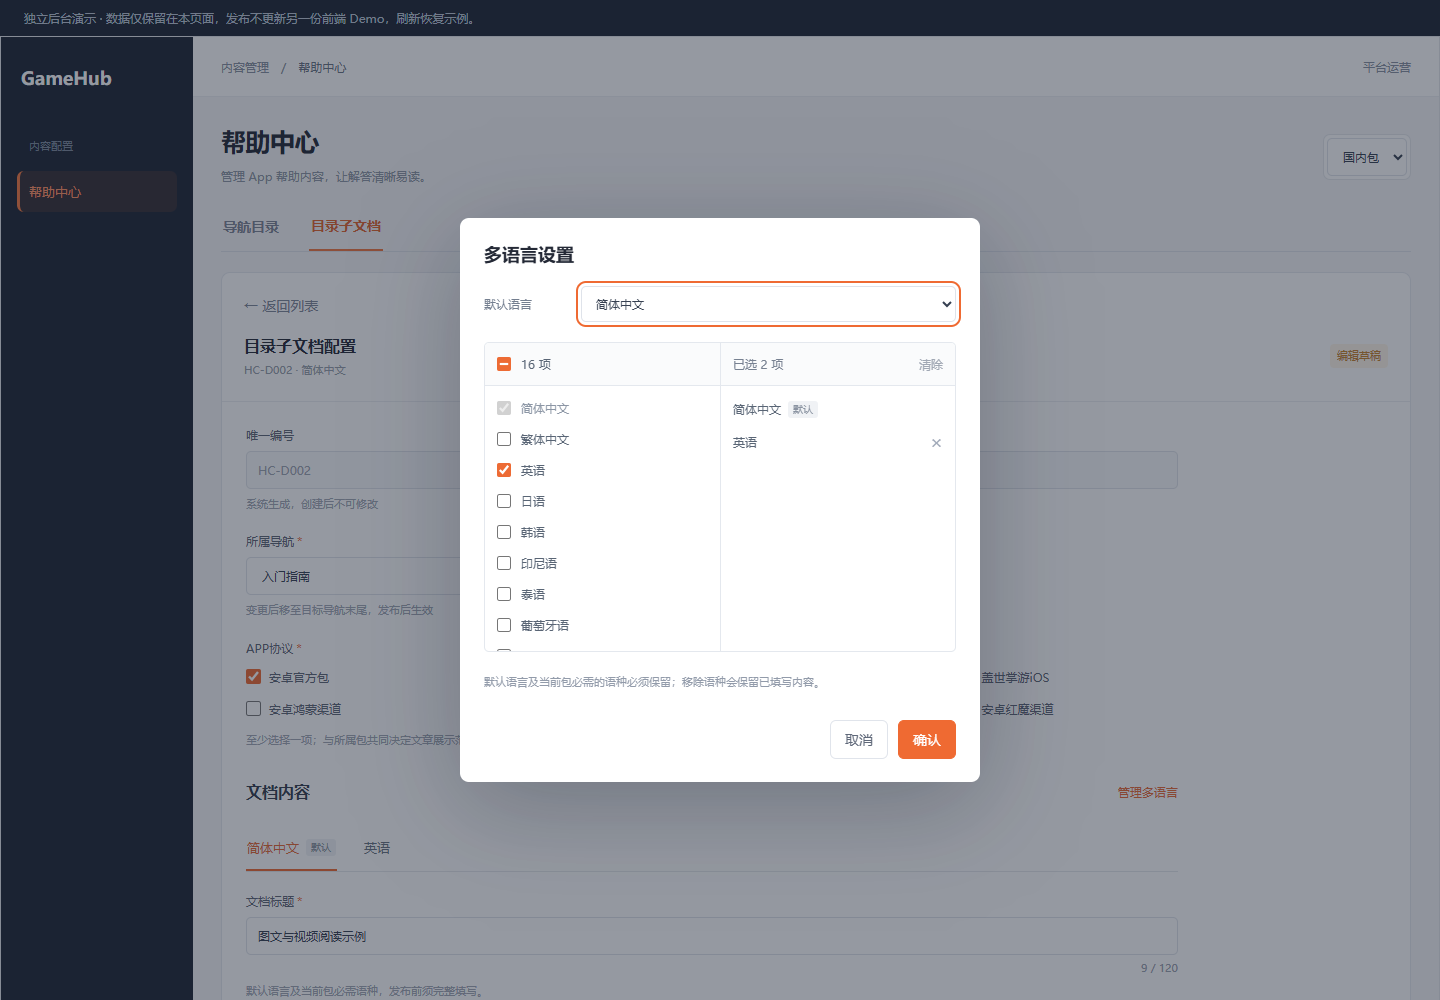
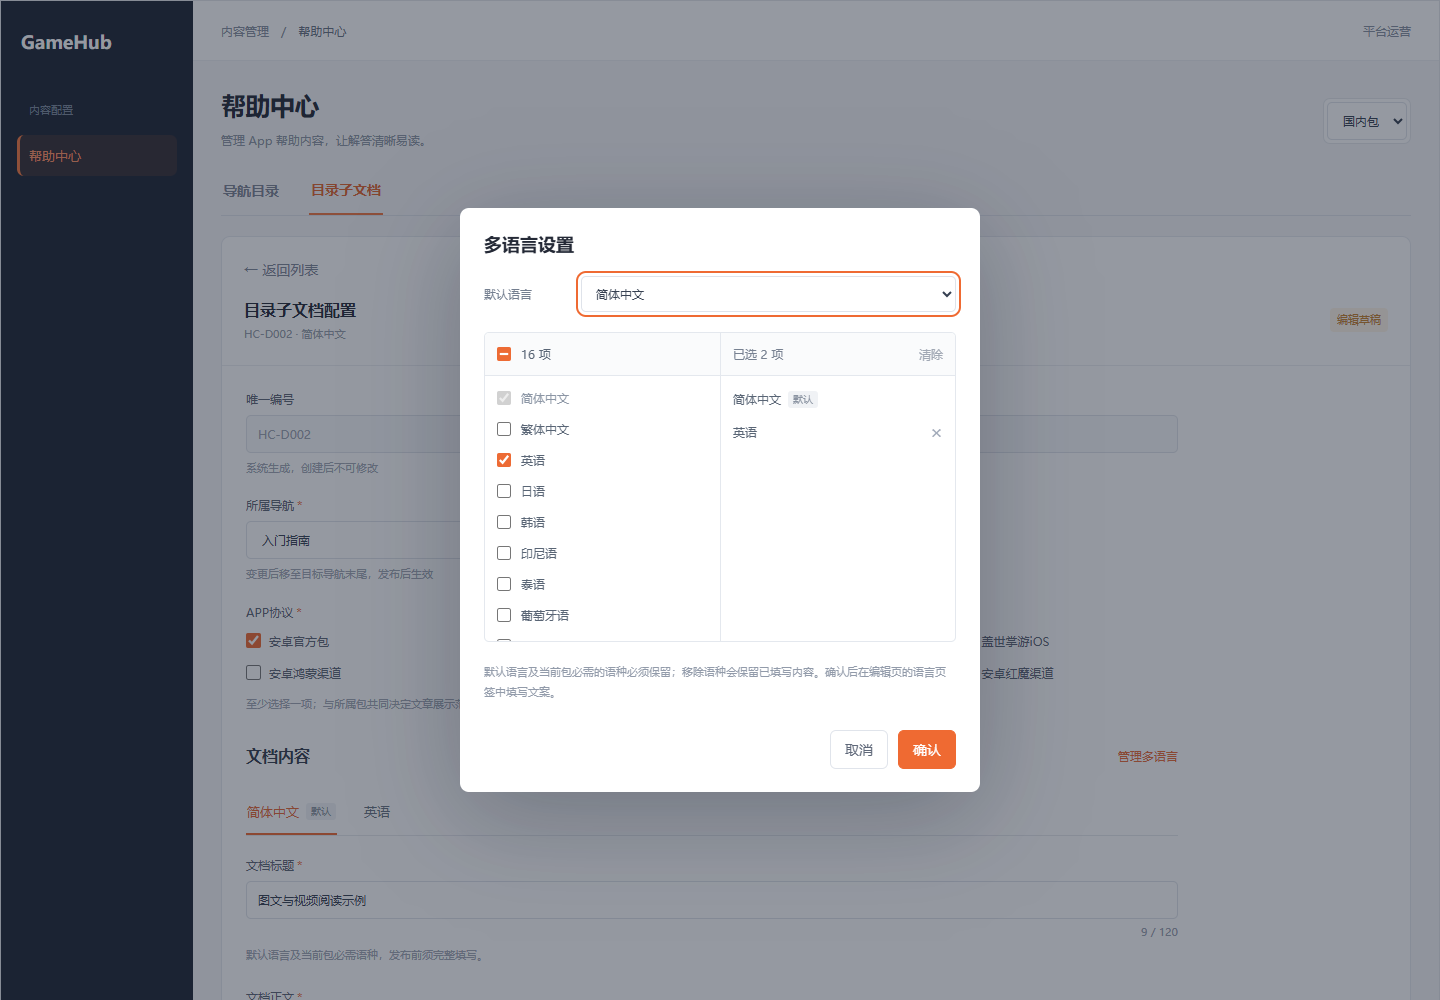
fix(help-center): open translation editor after language selection

diff --git a/demos/帮助中心/帮助中心后台demo.html b/demos/帮助中心/帮助中心后台demo.html
@@ -166,7 +166,7 @@
   function protectedLanguages(){return [...new Set([state.modal.defaultLanguage,...store.requiredLanguages(current())])];}
   function languageModal(){
     const modal=state.modal,protectedCodes=protectedLanguages();
-    return `<div class="ha-modal-layer"><section class="ha-language-dialog" data-ha-language-dialog role="dialog" aria-modal="true" aria-labelledby="ha-language-dialog-title"><header class="ha-dialog-head"><h2 id="ha-language-dialog-title">多语言设置</h2></header><div class="ha-dialog-default"><label for="ha-language-default">默认语言</label><select id="ha-language-default" data-ha-default-language>${store.languages.map(lang=>`<option value="${lang.code}" ${modal.defaultLanguage===lang.code?'selected':''}>${e(lang.label)}</option>`).join('')}</select></div><div class="ha-language-picker"><section><header><label><input type="checkbox" data-ha-language-all ${modal.enabled.length===store.languages.length?'checked':''}><span>${store.languages.length} 项</span></label></header><div class="ha-language-options">${store.languages.map(lang=>`<label><input type="checkbox" data-ha-language-option="${lang.code}" value="${lang.code}" ${modal.enabled.includes(lang.code)?'checked':''} ${protectedCodes.includes(lang.code)?'disabled':''}><span>${e(lang.label)}</span></label>`).join('')}</div></section><section><header><strong>已选 <span data-ha-language-selected-count>${modal.enabled.length}</span> 项</strong>${textBtn('清除','language-clear','',modal.enabled.every(code=>protectedCodes.includes(code))?'disabled':'')}</header><div class="ha-language-selected">${store.languages.filter(lang=>modal.enabled.includes(lang.code)).map(lang=>`<div data-ha-selected-language="${lang.code}"><span>${e(lang.label)}${protectedCodes.includes(lang.code)?`<small>${lang.code===modal.defaultLanguage?'默认':'必需'}</small>`:''}</span>${protectedCodes.includes(lang.code)?'':textBtn('×','language-remove',lang.code,`aria-label="移除${e(lang.label)}"`)}</div>`).join('')}</div></section></div><p class="ha-language-hint">默认语言及当前包必需的语种必须保留；移除语种会保留已填写内容。</p><div class="ha-feedback" data-ha-feedback role="status">${e(modal.error||'')}</div><footer class="ha-language-settings-actions">${btn('取消','language-cancel')}${btn('确认','language-confirm','','primary')}</footer></section></div>`;
+    return `<div class="ha-modal-layer"><section class="ha-language-dialog" data-ha-language-dialog role="dialog" aria-modal="true" aria-labelledby="ha-language-dialog-title"><header class="ha-dialog-head"><h2 id="ha-language-dialog-title">多语言设置</h2></header><div class="ha-dialog-default"><label for="ha-language-default">默认语言</label><select id="ha-language-default" data-ha-default-language>${store.languages.map(lang=>`<option value="${lang.code}" ${modal.defaultLanguage===lang.code?'selected':''}>${e(lang.label)}</option>`).join('')}</select></div><div class="ha-language-picker"><section><header><label><input type="checkbox" data-ha-language-all ${modal.enabled.length===store.languages.length?'checked':''}><span>${store.languages.length} 项</span></label></header><div class="ha-language-options">${store.languages.map(lang=>`<label><input type="checkbox" data-ha-language-option="${lang.code}" value="${lang.code}" ${modal.enabled.includes(lang.code)?'checked':''} ${protectedCodes.includes(lang.code)?'disabled':''}><span>${e(lang.label)}</span></label>`).join('')}</div></section><section><header><strong>已选 <span data-ha-language-selected-count>${modal.enabled.length}</span> 项</strong>${textBtn('清除','language-clear','',modal.enabled.every(code=>protectedCodes.includes(code))?'disabled':'')}</header><div class="ha-language-selected">${store.languages.filter(lang=>modal.enabled.includes(lang.code)).map(lang=>`<div data-ha-selected-language="${lang.code}"><span>${e(lang.label)}${protectedCodes.includes(lang.code)?`<small>${lang.code===modal.defaultLanguage?'默认':'必需'}</small>`:''}</span>${protectedCodes.includes(lang.code)?'':textBtn('×','language-remove',lang.code,`aria-label="移除${e(lang.label)}"`)}</div>`).join('')}</div></section></div><p class="ha-language-hint">默认语言及当前包必需的语种必须保留；移除语种会保留已填写内容。确认后在编辑页的语言页签中填写文案。</p><div class="ha-feedback" data-ha-feedback role="status">${e(modal.error||'')}</div><footer class="ha-language-settings-actions">${btn('取消','language-cancel')}${btn(modal.origin==='languages'?'确认并编辑':'确认','language-confirm','','primary')}</footer></section></div>`;
   }
   function refreshLanguageSettings(focusSelector){
     const old=root.querySelector('.ha-modal-layer');if(old)old.outerHTML=languageModal();
@@ -178,8 +178,14 @@
   }
   function closeLanguages(confirm=false){
     const modal=state.modal;if(!modal)return;
+    const before=store.get(modal.type,modal.id),added=store.languages.map(lang=>lang.code).filter(code=>modal.enabled.includes(code)&&!before.enabledLanguages.includes(code));
     if(confirm){const error=store.setLanguages(modal.type,modal.id,modal.enabled,modal.defaultLanguage);if(error){modal.error=error;refreshLanguageSettings();return;}}
     const item=store.get(modal.type,modal.id);state.modal=null;
+    if(confirm&&(modal.origin==='languages'||added.length)){
+      const unfinished=item.enabledLanguages.find(code=>{const value=store.translation(item,code);return !value?.title?.trim()||(modal.type==='docs'&&!String(value?.html||'').trim());});
+      state.tab=modal.type;state.selected=modal.id;state.language=added[0]||(modal.origin==='languages'?unfinished:'')||item.defaultLanguage;state.feedback='';state.deleting='';
+      render();root.querySelector('.ha-content-languages')?.scrollIntoView({block:'start'});root.querySelector('[data-ha-title]')?.focus({preventScroll:true});return;
+    }
     if(state.selected&&!item.enabledLanguages.includes(state.language))state.language=item.defaultLanguage;
     render();root.querySelector(`[data-ha-action="${modal.origin}"][data-id="${modal.id}"]`)?.focus();
   }

diff --git a/demos/帮助中心/src/admin.js b/demos/帮助中心/src/admin.js
@@ -53,7 +53,7 @@
   function protectedLanguages(){return [...new Set([state.modal.defaultLanguage,...store.requiredLanguages(current())])];}
   function languageModal(){
     const modal=state.modal,protectedCodes=protectedLanguages();
-    return `<div class="ha-modal-layer"><section class="ha-language-dialog" data-ha-language-dialog role="dialog" aria-modal="true" aria-labelledby="ha-language-dialog-title"><header class="ha-dialog-head"><h2 id="ha-language-dialog-title">多语言设置</h2></header><div class="ha-dialog-default"><label for="ha-language-default">默认语言</label><select id="ha-language-default" data-ha-default-language>${store.languages.map(lang=>`<option value="${lang.code}" ${modal.defaultLanguage===lang.code?'selected':''}>${e(lang.label)}</option>`).join('')}</select></div><div class="ha-language-picker"><section><header><label><input type="checkbox" data-ha-language-all ${modal.enabled.length===store.languages.length?'checked':''}><span>${store.languages.length} 项</span></label></header><div class="ha-language-options">${store.languages.map(lang=>`<label><input type="checkbox" data-ha-language-option="${lang.code}" value="${lang.code}" ${modal.enabled.includes(lang.code)?'checked':''} ${protectedCodes.includes(lang.code)?'disabled':''}><span>${e(lang.label)}</span></label>`).join('')}</div></section><section><header><strong>已选 <span data-ha-language-selected-count>${modal.enabled.length}</span> 项</strong>${textBtn('清除','language-clear','',modal.enabled.every(code=>protectedCodes.includes(code))?'disabled':'')}</header><div class="ha-language-selected">${store.languages.filter(lang=>modal.enabled.includes(lang.code)).map(lang=>`<div data-ha-selected-language="${lang.code}"><span>${e(lang.label)}${protectedCodes.includes(lang.code)?`<small>${lang.code===modal.defaultLanguage?'默认':'必需'}</small>`:''}</span>${protectedCodes.includes(lang.code)?'':textBtn('×','language-remove',lang.code,`aria-label="移除${e(lang.label)}"`)}</div>`).join('')}</div></section></div><p class="ha-language-hint">默认语言及当前包必需的语种必须保留；移除语种会保留已填写内容。</p><div class="ha-feedback" data-ha-feedback role="status">${e(modal.error||'')}</div><footer class="ha-language-settings-actions">${btn('取消','language-cancel')}${btn('确认','language-confirm','','primary')}</footer></section></div>`;
+    return `<div class="ha-modal-layer"><section class="ha-language-dialog" data-ha-language-dialog role="dialog" aria-modal="true" aria-labelledby="ha-language-dialog-title"><header class="ha-dialog-head"><h2 id="ha-language-dialog-title">多语言设置</h2></header><div class="ha-dialog-default"><label for="ha-language-default">默认语言</label><select id="ha-language-default" data-ha-default-language>${store.languages.map(lang=>`<option value="${lang.code}" ${modal.defaultLanguage===lang.code?'selected':''}>${e(lang.label)}</option>`).join('')}</select></div><div class="ha-language-picker"><section><header><label><input type="checkbox" data-ha-language-all ${modal.enabled.length===store.languages.length?'checked':''}><span>${store.languages.length} 项</span></label></header><div class="ha-language-options">${store.languages.map(lang=>`<label><input type="checkbox" data-ha-language-option="${lang.code}" value="${lang.code}" ${modal.enabled.includes(lang.code)?'checked':''} ${protectedCodes.includes(lang.code)?'disabled':''}><span>${e(lang.label)}</span></label>`).join('')}</div></section><section><header><strong>已选 <span data-ha-language-selected-count>${modal.enabled.length}</span> 项</strong>${textBtn('清除','language-clear','',modal.enabled.every(code=>protectedCodes.includes(code))?'disabled':'')}</header><div class="ha-language-selected">${store.languages.filter(lang=>modal.enabled.includes(lang.code)).map(lang=>`<div data-ha-selected-language="${lang.code}"><span>${e(lang.label)}${protectedCodes.includes(lang.code)?`<small>${lang.code===modal.defaultLanguage?'默认':'必需'}</small>`:''}</span>${protectedCodes.includes(lang.code)?'':textBtn('×','language-remove',lang.code,`aria-label="移除${e(lang.label)}"`)}</div>`).join('')}</div></section></div><p class="ha-language-hint">默认语言及当前包必需的语种必须保留；移除语种会保留已填写内容。确认后在编辑页的语言页签中填写文案。</p><div class="ha-feedback" data-ha-feedback role="status">${e(modal.error||'')}</div><footer class="ha-language-settings-actions">${btn('取消','language-cancel')}${btn(modal.origin==='languages'?'确认并编辑':'确认','language-confirm','','primary')}</footer></section></div>`;
   }
   function refreshLanguageSettings(focusSelector){
     const old=root.querySelector('.ha-modal-layer');if(old)old.outerHTML=languageModal();
@@ -65,8 +65,14 @@
   }
   function closeLanguages(confirm=false){
     const modal=state.modal;if(!modal)return;
+    const before=store.get(modal.type,modal.id),added=store.languages.map(lang=>lang.code).filter(code=>modal.enabled.includes(code)&&!before.enabledLanguages.includes(code));
     if(confirm){const error=store.setLanguages(modal.type,modal.id,modal.enabled,modal.defaultLanguage);if(error){modal.error=error;refreshLanguageSettings();return;}}
     const item=store.get(modal.type,modal.id);state.modal=null;
+    if(confirm&&(modal.origin==='languages'||added.length)){
+      const unfinished=item.enabledLanguages.find(code=>{const value=store.translation(item,code);return !value?.title?.trim()||(modal.type==='docs'&&!String(value?.html||'').trim());});
+      state.tab=modal.type;state.selected=modal.id;state.language=added[0]||(modal.origin==='languages'?unfinished:'')||item.defaultLanguage;state.feedback='';state.deleting='';
+      render();root.querySelector('.ha-content-languages')?.scrollIntoView({block:'start'});root.querySelector('[data-ha-title]')?.focus({preventScroll:true});return;
+    }
     if(state.selected&&!item.enabledLanguages.includes(state.language))state.language=item.defaultLanguage;
     render();root.querySelector(`[data-ha-action="${modal.origin}"][data-id="${modal.id}"]`)?.focus();
   }

diff --git a/demos/帮助中心/评审修改记录.md b/demos/帮助中心/评审修改记录.md
@@ -33,3 +33,7 @@ V1.2时渠道字段曾列待确认，现由下方V1.3用户截图补充取代。
 按用户提供的编辑页页签与多语言设置参考图实现；对应本地参考组件 publisher-game-names.js。文案在编辑页语言页签下维护，右上管理多语言打开520px双栏设置弹窗：默认语言、16语checkbox、全选/半选、已选数量、清除、取消/确认。取消或Escape丢弃临时设置，确认才改变对象草稿启用语种/默认语。
 
 移除语种不清空任何文案和媒体，重新添加恢复；默认语及当前包必需语保护，后者沿当前帮助中心建议规则国内中文/海外英语，不直接照搬游戏发行规则。已发布语言配置决定读取语言，移除后按对象默认回退；必需语及默认语完整、可选启用语全空可回退半译不可发布、未启用语不参加完整性校验。帮助中心仍无版本控制。
+
+## V1.6 新增语种后的编辑衔接
+
+用户反馈列表添加语言后找不到文案输入。原流程需返回列表再点编辑，现改列表“确认并编辑”直接进入同一对象编辑页并定位语言区；有新增按注册顺序选首个新增语，无新增选首个未完成语否则默认语。编辑页添加后直接切新增语种，取消仍保持原页及设置。9组语言检查通过，含文档标题正文与导航名称输入及返回保留。

diff --git a/demos/帮助中心/交付检查.md b/demos/帮助中心/交付检查.md
@@ -1,3 +1,5 @@
+> 当前以 V1.6 增量为准：列表点击“确认并编辑”直接打开文案区，编辑页新增语言后自动切到首个新增语种并聚焦标题。9组语言交互检查通过，覆盖多语标题／正文输入、导航名称、返回保留、取消及发布隔离；截图14提供填写证据。以下V1.5检查作为此前基线。
+
 # 帮助中心 V1.5 交付检查
 
 当前交付为独立 App Demo、独立后台 Demo、页面截图及 PRD。数据保存在各自页面内存，刷新重置；两份 Demo 不跨文件同步，也未接入真实服务端。

diff --git a/demos/帮助中心/README.md b/demos/帮助中心/README.md
@@ -24,3 +24,5 @@
 APP协议按截图中的8项多选，与国内／海外包共同控制可见性；版本控制归灰度，帮助中心不配置版本。
 
 增量验证：`verify-protocol.mjs`、`verify-language-modal.mjs`，覆盖协议、语言设置、恢复媒体与发布隔离。
+
+V1.6：列表多语言点击“确认并编辑”直达文案编辑区。新增时自动选中首个新增语种；无新增时优先待填写语种，否则默认语。编辑页新增语种后同样自动切换，标题获得焦点；取消不进入编辑。
